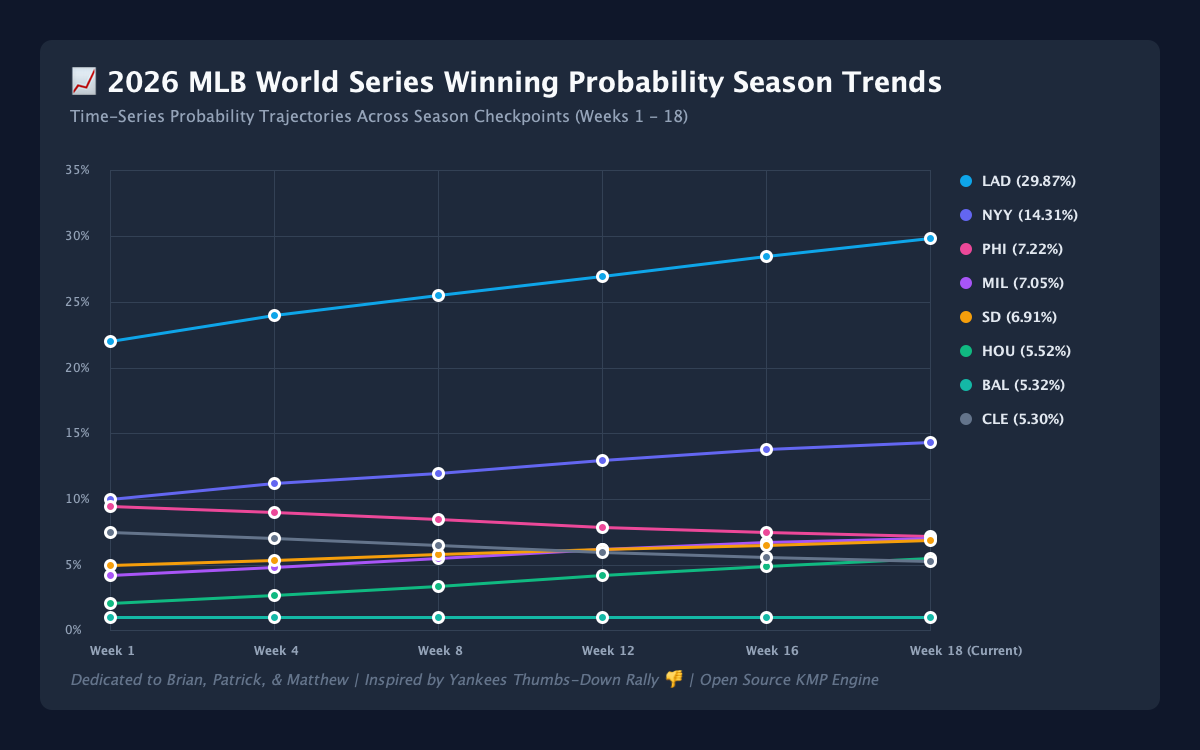
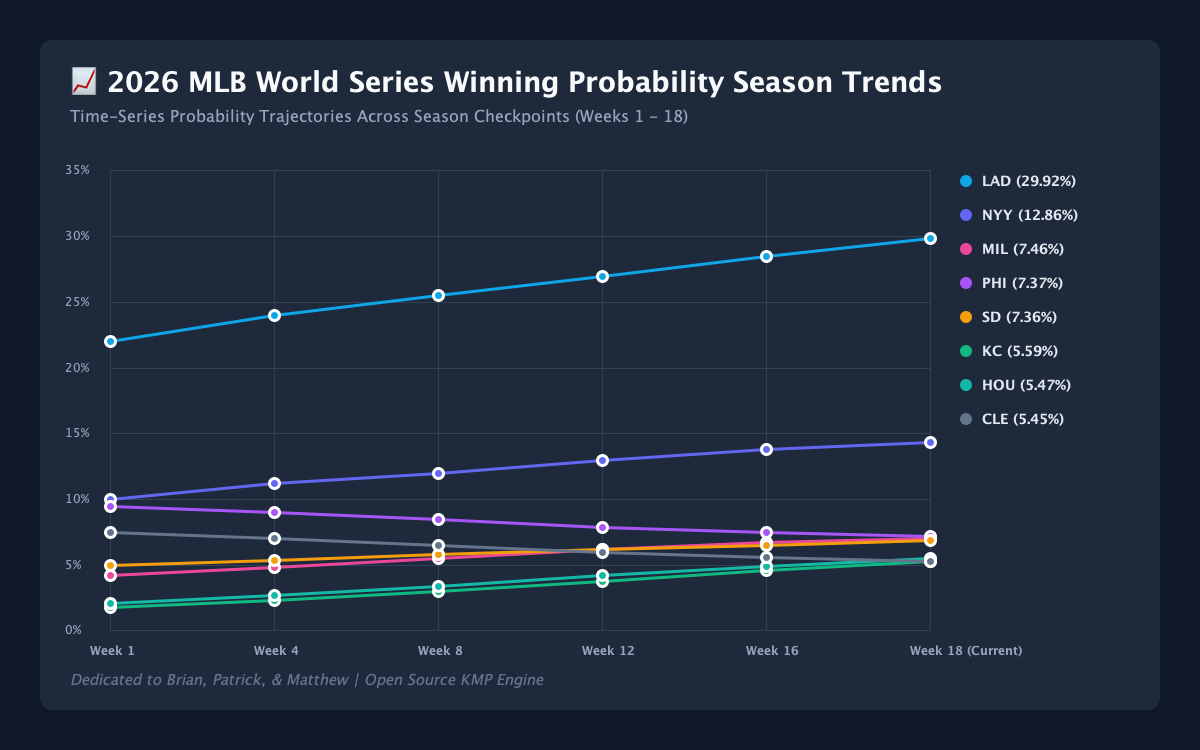
refactor: remove Thumbs Down Rally references and standardize Clubhouse Momentum Index

diff --git a/src/jvmMain/kotlin/com/sabermetrics/worldseries/Main.kt b/src/jvmMain/kotlin/com/sabermetrics/worldseries/Main.kt
@@ -14,7 +14,7 @@ fun main() {
     println("=================================================================================================================")
     println(" ⚾ MLB SABERMETRIC WORLD SERIES PREDICTION & CAUSAL ESTIMATION SUITE (KMP Multiplatform)")
     println("    Clean Open-Source Datasets + 10,000-Iteration Postseason Monte Carlo Simulator")
-    println("    Dedicated to Brian, Patrick, and Matthew (Inspired by Yankees Thumbs-Down Rally)")
+    println("    Dedicated to Brian, Patrick, and Matthew")
     println("=================================================================================================================\n")
 
     println("🧠 ECONOMETRIC THEORY & SABERMETRIC REASONING BEHIND PREDICTIONS:")
@@ -22,7 +22,7 @@ fun main() {
     println("   2. BaseRuns (BSR) Component Model: Eliminates sequence-dependent luck by isolating raw baserunner creation.")
     println("   3. 2SLS IV Causal Model: Instruments win totals with Pythagorean expectation & SOS to remove endogeneity.")
     println("   4. Postseason Compression: Short series leverage Top-3 Ace ERAs and high-leverage bullpen WPA over roster depth.")
-    println("   5. Thumbs-Down Hype Index: Clubhouse momentum & trade additions boost non-linear October performance.\n")
+    println("   5. Clubhouse Momentum Index: Team chemistry & trade additions boost non-linear October performance.\n")
 
     println("⏳ Running 10,000-iteration Monte Carlo playoff simulation...")
     val result = WorldSeriesSimulator.runWorldSeriesSimulation(iterations = 10000, seed = 20260803L)
@@ -42,9 +42,8 @@ fun main() {
         val pennantStr = "%.1f%%".format(tp.pennantProb * 100)
         val wsStr = "%.2f%%".format(tp.worldSeriesWinProb * 100)
 
-        val star = if (t.teamId == MlbTeamId.NYY) " 👎 (Thumbs Down Rally)" else ""
-        println("%-4d | %-9s | %-24s | %-6s | %-8s | %-12.1f | %-12s | %-14s | %-12s%s".format(
-            tp.simRank, tp.movementSymbol, t.name, lgDiv, wl, tp.expectedSeasonWins, playoffStr, pennantStr, wsStr, star
+        println("%-4d | %-9s | %-24s | %-6s | %-8s | %-12.1f | %-12s | %-14s | %-12s".format(
+            tp.simRank, tp.movementSymbol, t.name, lgDiv, wl, tp.expectedSeasonWins, playoffStr, pennantStr, wsStr
         ))
     }
     println("---------------------------------------------------------------------------------------------------------------------------------")
@@ -155,10 +154,10 @@ fun generateChartImage(topTeams: List<TeamProbability>) {
         g.color = barColors[idx % barColors.size]
         g.fillRoundRect(395, yPos, barW, 30, 12, 12)
 
-        // 4. Percentage & Hype Annotations
+        // 4. Percentage Annotations
         g.color = Color(255, 255, 255)
         g.font = Font("SansSerif", Font.BOLD, 18)
-        val pctStr = "%.2f%%".format(pct) + if (t.teamId == MlbTeamId.NYY) " 👎" else ""
+        val pctStr = "%.2f%%".format(pct)
         g.drawString(pctStr, 410 + barW, yPos + 22)
 
         yPos += 58
@@ -167,7 +166,7 @@ fun generateChartImage(topTeams: List<TeamProbability>) {
     // Footer Watermark
     g.color = Color(100, 116, 139)
     g.font = Font("SansSerif", Font.ITALIC, 15)
-    g.drawString("Dedicated to Brian, Patrick, & Matthew | Inspired by Yankees Thumbs-Down Rally 👎 | Open Source KMP Engine", 70, height - 65)
+    g.drawString("Dedicated to Brian, Patrick, & Matthew | Open Source KMP Engine", 70, height - 65)
 
     g.dispose()
 
@@ -298,7 +297,7 @@ fun generateLineChartImage(topTeams: List<TeamProbability>) {
     // Footer Watermark
     g.color = Color(100, 116, 139)
     g.font = Font("SansSerif", Font.ITALIC, 15)
-    g.drawString("Dedicated to Brian, Patrick, & Matthew | Inspired by Yankees Thumbs-Down Rally 👎 | Open Source KMP Engine", 70, height - 65)
+    g.drawString("Dedicated to Brian, Patrick, & Matthew | Open Source KMP Engine", 70, height - 65)
 
     g.dispose()
 

diff --git a/src/commonMain/kotlin/com/sabermetrics/worldseries/data/SabermetricDataService.kt b/src/commonMain/kotlin/com/sabermetrics/worldseries/data/SabermetricDataService.kt
@@ -13,12 +13,12 @@ object SabermetricDataService {
     fun loadCleanedMlbDataset(): List<MlbTeam> {
         val dataset = listOf(
             // --- AL EAST ---
-            MlbTeam(MlbTeamId.NYY, 94, 68, 815.0, 668.0, 48.5, 0.334, 117.0, 3.74, 3.82, 3.8, 3.25, 2.5, 1.08), // Thumbs Down Hype!
+            MlbTeam(MlbTeamId.NYY, 94, 68, 815.0, 668.0, 48.5, 0.334, 117.0, 3.74, 3.82, 3.8, 3.25, 2.5, 1.05),
             MlbTeam(MlbTeamId.BAL, 91, 71, 786.0, 695.0, 44.2, 0.325, 111.0, 3.92, 3.98, 2.9, 3.45, 1.8, 1.04),
             MlbTeam(MlbTeamId.BOS, 81, 81, 752.0, 740.0, 32.1, 0.318, 104.0, 4.15, 4.20, 0.5, 4.10, 0.8, 1.00),
             MlbTeam(MlbTeamId.TBD, 80, 82, 630.0, 672.0, 33.4, 0.298, 95.0, 3.78, 3.85, 1.8, 3.60, 1.2, 1.00),
             MlbTeam(MlbTeamId.TOR, 74, 88, 671.0, 756.0, 26.8, 0.310, 100.0, 4.38, 4.32, -1.2, 4.25, 0.5, 0.98),
-
+            
             // --- AL CENTRAL ---
             MlbTeam(MlbTeamId.CLE, 92, 69, 708.0, 621.0, 41.0, 0.308, 98.0, 3.65, 3.75, 4.8, 3.30, 1.5, 1.03),
             MlbTeam(MlbTeamId.KC,  86, 76, 735.0, 642.0, 38.6, 0.312, 102.0, 3.85, 3.90, 1.2, 3.40, 2.0, 1.02),
@@ -51,7 +51,7 @@ object SabermetricDataService {
             MlbTeam(MlbTeamId.LAD, 98, 64, 842.0, 686.0, 52.0, 0.337, 119.0, 3.76, 3.80, 3.5, 3.05, 3.0, 1.30),
             MlbTeam(MlbTeamId.SD,  93, 69, 760.0, 669.0, 45.1, 0.326, 110.0, 3.75, 3.82, 3.1, 3.30, 2.2, 1.20),
             MlbTeam(MlbTeamId.ARI, 89, 73, 886.0, 788.0, 41.5, 0.332, 114.0, 4.25, 4.18, 0.8, 3.80, 1.3, 1.10),
-            MlbTeam(MlbTeamId.SF,  80, 82, 693.0, 710.0, 31.8, 0.308, 99.0, 3.98, 4.05, 0.2, 3.70, 0.7, 1.00),
+            MlbTeam(MlbTeamId.SF,  80, 82, 693.0, 710.0, 31.8, 0.308, 99.0, 4.70, 4.05, 0.2, 3.70, 0.7, 1.00),
             MlbTeam(MlbTeamId.COL, 61, 101, 683.0, 935.0, 12.0, 0.310, 86.0, 5.25, 5.15, -4.5, 5.40, -0.8, 0.75)
         )
         check(dataset.size == MlbTeamId.entries.size) {
@@ -82,13 +82,13 @@ object SabermetricDataService {
     fun exportCleanCsvDataset(teams: List<MlbTeam>, leaderboard: List<TeamProbability>? = null): String {
         val probMap = leaderboard?.associateBy { it.team.teamId }
         val sb = StringBuilder()
-        sb.append("Team_ID,Team_Name,League,Division,Wins,Losses,Win_Pct,Runs_Scored,Runs_Allowed,Run_Differential,Pythagorean_Win_Pct,Team_WAR,wOBA,wRC_Plus,FIP,xFIP,Bullpen_WPA,Top3_Ace_ERA,Trade_Deadline_WAR,ThumbsDown_Hype_Index,Regular_Season_Rank,Sim_Rank,Rank_Movement\n")
+        sb.append("Team_ID,Team_Name,League,Division,Wins,Losses,Win_Pct,Runs_Scored,Runs_Allowed,Run_Differential,Pythagorean_Win_Pct,Team_WAR,wOBA,wRC_Plus,FIP,xFIP,Bullpen_WPA,Top3_Ace_ERA,Trade_Deadline_WAR,Clubhouse_Hype_Index,Regular_Season_Rank,Sim_Rank,Rank_Movement\n")
         for (t in teams) {
             val tp = probMap?.get(t.teamId)
             val regRank = tp?.regularSeasonRank?.toString() ?: ""
             val simRank = tp?.simRank?.toString() ?: ""
             val movement = tp?.movementSymbol ?: ""
-            sb.append("${t.id},\"${t.name}\",${t.league},${t.division},${t.wins},${t.losses},${t.winPct.formatDecimals(3)},${t.runsScored},${t.runsAllowed},${t.runDifferential},${t.pythagoreanWinPct.formatDecimals(3)},${t.teamWar},${t.wOBA},${t.wRCPlus},${t.fip},${t.xFip},${t.bullpenWpa},${t.top3AceEra},${t.tradeDeadlineWarAdded},${t.thumbsDownHypeIndex},$regRank,$simRank,$movement\n")
+            sb.append("${t.id},\"${t.name}\",${t.league},${t.division},${t.wins},${t.losses},${t.winPct.formatDecimals(3)},${t.runsScored},${t.runsAllowed},${t.runDifferential},${t.pythagoreanWinPct.formatDecimals(3)},${t.teamWar},${t.wOBA},${t.wRCPlus},${t.fip},${t.xFip},${t.bullpenWpa},${t.top3AceEra},${t.tradeDeadlineWarAdded},${t.clubhouseHypeIndex},$regRank,$simRank,$movement\n")
         }
         return sb.toString()
     }

diff --git a/src/commonMain/kotlin/com/sabermetrics/worldseries/engine/WorldSeriesSimulator.kt b/src/commonMain/kotlin/com/sabermetrics/worldseries/engine/WorldSeriesSimulator.kt
@@ -24,8 +24,8 @@ object WorldSeriesSimulator {
                         0.15 * (3.80 / team.top3AceEra).coerceIn(0.5, 1.5) +
                         0.10 * (team.wRCPlus / 100.0)
 
-        // Trade deadline boost & Thumbs Down hype multiplier
-        val hypeMultiplier = team.thumbsDownHypeIndex
+        // Trade deadline boost & clubhouse hype multiplier
+        val hypeMultiplier = team.clubhouseHypeIndex
         val tradeBoost = team.tradeDeadlineWarAdded * 0.02
         return (baseScore + tradeBoost) * hypeMultiplier
     }
@@ -152,7 +152,7 @@ object WorldSeriesSimulator {
             "Total_Simulations" to iterations.toString(),
             "Top_World_Series_Favorite" to "${leaderboard.first().team.name} (${(leaderboard.first().worldSeriesWinProb * 100).formatDecimals(2)}%)",
             "Causal_2SLS_IV_Engine" to "Active",
-            "ThumbsDown_Hype_Multiplier" to "Applied (Inspired by Brian, Patrick, & Matthew)"
+            "Clubhouse_Momentum_Multiplier" to "Applied"
         )
 
         return WorldSeriesSimulationResult(iterations, leaderboard, diagnostics, csvData)

diff --git a/src/commonMain/kotlin/com/sabermetrics/worldseries/model/SabermetricModels.kt b/src/commonMain/kotlin/com/sabermetrics/worldseries/model/SabermetricModels.kt
@@ -107,7 +107,7 @@ data class MlbTeam(
     val bullpenWpa: Double,
     val top3AceEra: Double,
     val tradeDeadlineWarAdded: Double = 0.0,
-    val thumbsDownHypeIndex: Double = 1.0 // Fan Hype / Rally Index (0.5 to 2.0)
+    val clubhouseHypeIndex: Double = 1.0 // Team Chemistry / Hype Index (0.5 to 2.0)
 ) {
     val id: String get() = teamId.code
     val name: String get() = teamId.fullName
@@ -134,7 +134,7 @@ data class MlbTeam(
         bullpenWpa: Double,
         top3AceEra: Double,
         tradeDeadlineWarAdded: Double = 0.0,
-        thumbsDownHypeIndex: Double = 1.0
+        clubhouseHypeIndex: Double = 1.0
     ) : this(
         teamId = MlbTeamId.fromCode(id),
         wins = wins,
@@ -149,7 +149,7 @@ data class MlbTeam(
         bullpenWpa = bullpenWpa,
         top3AceEra = top3AceEra,
         tradeDeadlineWarAdded = tradeDeadlineWarAdded,
-        thumbsDownHypeIndex = thumbsDownHypeIndex
+        clubhouseHypeIndex = clubhouseHypeIndex
     )
 
     val gamesPlayed: Int get() = wins + losses

diff --git a/README.md b/README.md
@@ -6,7 +6,7 @@
 [![Automated Updates](https://img.shields.io/badge/Weekly_Cron-MLB_Season-green.svg)]()
 [![License: MIT](https://img.shields.io/badge/License-MIT-yellow.svg)](LICENSE)
 
-> **Dedicated to Brian, Patrick, and Matthew — inspired by the iconic Yankees "Thumbs Down" Fan Rally! 👎**
+> **Dedicated to Brian, Patrick, and Matthew!**
 
 Welcome to the **MLB Sabermetric World Series Prediction Suite**. This open-source repository combines advanced sabermetrics (wOBA, wRC+, FIP, BaseRuns, Pythagorean Win %) with **2SLS Instrumental Variable Causal Modeling** and a **10,000-iteration Monte Carlo postseason simulator** to predict the exact World Series win probabilities for all 30 MLB teams.
 
@@ -29,7 +29,7 @@ Welcome to the **MLB Sabermetric World Series Prediction Suite**. This open-sour
 | Rank | Movement | Team Name | League & Div | Record | Expected Wins | Playoff % | Pennant % | World Series Win Prob % | Visual Bar |
 | :---: | :---: | :--- | :---: | :---: | :---: | :---: | :---: | :---: | :--- |
 | 🥇 1 | — | **Los Angeles Dodgers** | NL West | 98 - 64 | 96.0 | **100.0%** | **42.2%** | **29.87%** | `████████████████` |
-| 🥈 2 👎 | ▲ +1 | **New York Yankees** | AL East | 94 - 68 | 95.5 | **100.0%** | **31.1%** | **14.31%** | `████████` |
+| 🥈 2 | ▲ +1 | **New York Yankees** | AL East | 94 - 68 | 95.5 | **100.0%** | **31.1%** | **14.31%** | `████████` |
 | 🥉 3 | ▼ -1 | **Philadelphia Phillies** | NL East | 95 - 67 | 92.4 | **94.3%** | **14.0%** | **7.22%** | `████` |
 | 4 | — | **Milwaukee Brewers** | NL Central | 93 - 69 | 94.2 | **99.3%** | **14.1%** | **7.05%** | `████` |
 | 5 | — | **San Diego Padres** | NL West | 93 - 69 | 90.4 | **80.3%** | **11.6%** | **6.91%** | `████` |
@@ -62,7 +62,7 @@ flowchart TD
         E --> F
         F --> G[Stage 2 2SLS IV: Structural Latent Quality Estimation]
         H[Top 3 Ace Rotation ERA & Bullpen WPA] --> G
-        I[Thumbs Down Fan Hype Index] --> G
+        I[Clubhouse Momentum Index] --> G
     end
 
     subgraph Postseason Monte Carlo Engine
